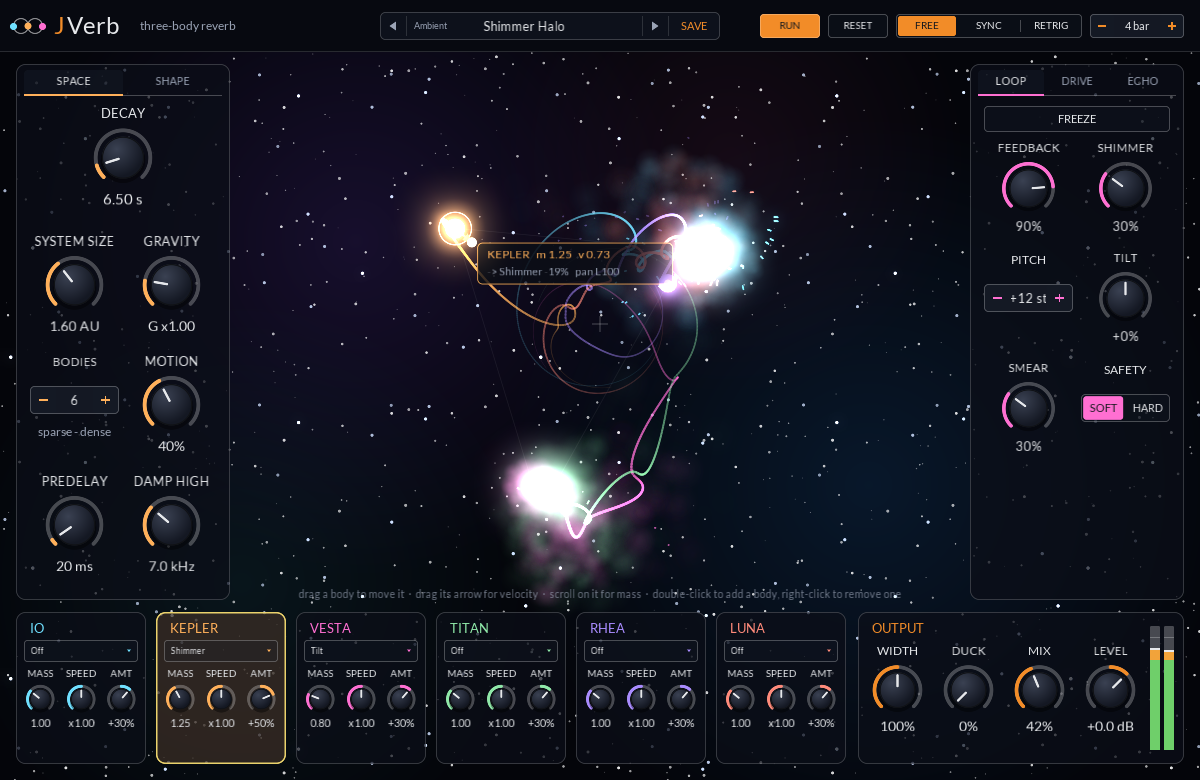
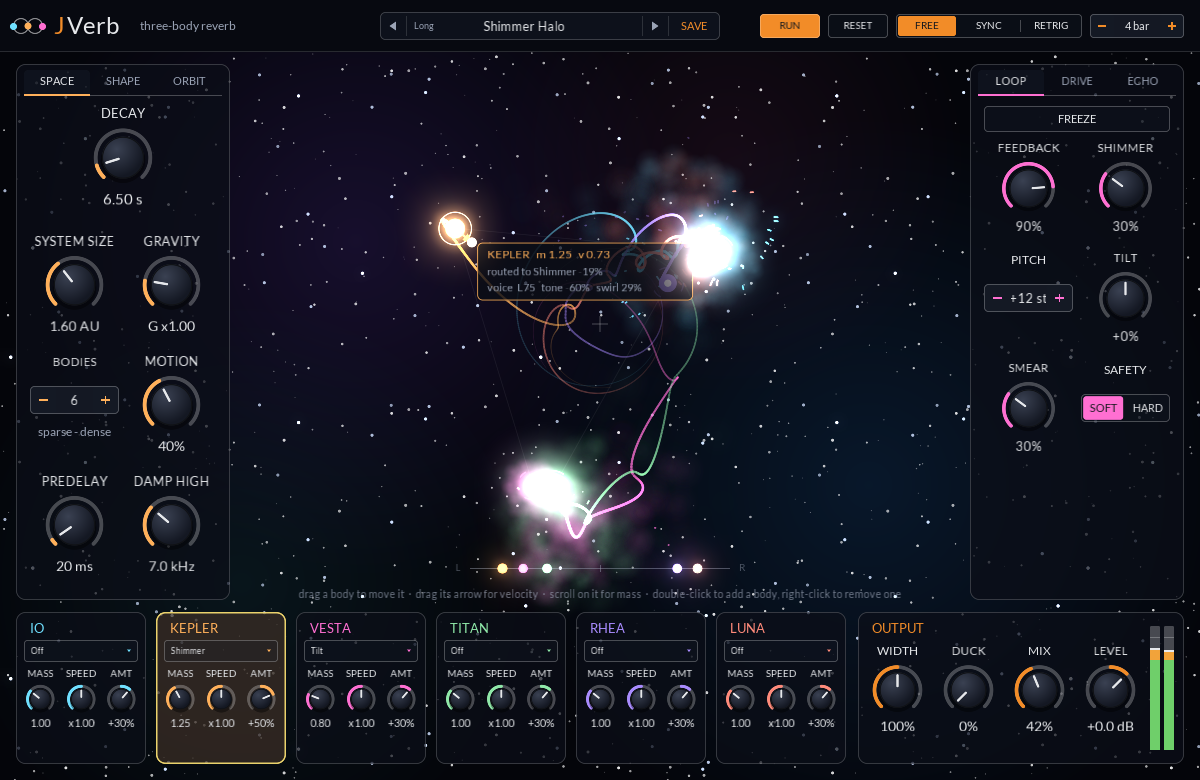
JVerb: show what each body's voice is doing
- An ORBIT page on the left panel holds the Pan, Tone and Swirl knobs, and
  a live row per body showing where its voice sits, its tone and how hard
  its phaser sweeps.
- In the orbit view a bright voice burns whiter and wider and a dark one
  deeper, swirl spins arcs around the body faster the harder it sweeps,
  and a strip under the stage places each voice left to right.
- The body readout adds the voice line and says where the body is routed.
- OrbitFrame carries the engine's applied pan, tone and swirl per body.

Claude-Session: https://claude.ai/code/session_01G8usepLMvmy9exTfPe5V8f

diff --git a/plugins/jverb/src/editor.cpp b/plugins/jverb/src/editor.cpp
@@ -188,6 +188,8 @@ public:
       const int oldCount = frame_.count;
       frame_ = f;
       time_ += dt;
+      for (int b = 0; b < kMaxBodies; ++b)
+         swirlAngle_[b] = std::fmod(swirlAngle_[b] + dt * (0.6f + 7.0f * std::clamp(f.voiceSwirl[b], 0.0f, 1.0f)), 6.2831853f);
       for (int b = f.count; b < std::max(oldCount, f.count); ++b)
          trails_[b].clear();
       if (selected >= f.count)
@@ -289,20 +291,34 @@ public:
       }
 
       // Bodies: a soft halo, a bright core, a white-hot centre; louder bands glow harder, and heavier
-      // bodies are bigger.
+      // bodies are bigger. Each body also shows its own voice in the tail: its tone (a bright voice
+      // burns whiter and wider, a dark one deep and dim) and its phaser (arcs that spin faster and
+      // brighter the harder it sweeps).
       for (int b = 0; b < f.count; ++b) {
          const float r = bodyRadius(f.mass[b]) * s;
          const float energy = std::min(1.0f, f.band[b % 3]) * 0.6f + flare_[b % 3];
+         const float tone = std::clamp(f.voiceTone[b], -1.0f, 1.0f), swirl = std::clamp(f.voiceSwirl[b], 0.0f, 1.0f);
          const float bx = X(f.x[b]), by = Y(f.y[b]);
-         const float halo = r * (3.0f + 1.5f * energy);
-         c.setColor(visage::Brush::radial(glow(kBodyColors[b], 0.24f + 0.14f * energy, 1.0f),
-                                          glow(kBodyColors[b], 0.0f, 1.0f), visage::Point(bx, by), halo));
+         const float halo = r * (3.0f + 1.5f * energy) * (1.0f + 0.2f * tone);
+         const visage::Color core = visage::Color(kBodyColors[b]).interpolateWith(0xffffffff, std::max(0.0f, 0.3f * tone));
+         c.setColor(visage::Brush::radial(core.withAlpha(0.22f + 0.12f * energy + 0.06f * tone),
+                                          core.withAlpha(0.0f), visage::Point(bx, by), halo));
          c.circle(bx - halo, by - halo, 2 * halo);
-         c.setColor(glow(kBodyColors[b], 1.0f, 1.6f + 0.5f * energy));
+         visage::Color body = core;
+         body.setHdr(1.5f + 0.5f * energy + 0.25f * tone);
+         c.setColor(body);
          c.circle(bx - r, by - r, 2 * r);
-         c.setColor(glow(0xffffffff, 1.0f, 1.8f + 0.5f * energy));
+         c.setColor(glow(0xffffffff, 1.0f, 1.8f + 0.5f * energy + 0.15f * tone));
          c.circle(bx - 0.4f * r, by - 0.4f * r, 0.8f * r);
+         if (swirl > 0.02f) {
+            const float ring = r + (6.0f + 4.0f * swirl) * s;
+            c.setColor(glow(kBodyColors[b], 0.25f + 0.65f * swirl, 1.0f + 0.6f * swirl));
+            for (int k = 0; k < 3; ++k)
+               c.roundedArc(bx - ring, by - ring, 2 * ring, 1.4f * s, swirlAngle_[b] + k * 2.0944f, 0.15f + 0.35f * swirl);
+         }
       }
+
+      drawStereo(c, s, f);
 
       const int shown = selected >= 0 ? selected : hover_;
       if (shown >= 0 && shown < f.count)
@@ -607,6 +623,22 @@ private:
       }
    }
 
+   // Where each body's voice sits in the stereo field: a strip under the stage, a dot per body.
+   void drawStereo(visage::Canvas &c, float s, const OrbitFrame &f) {
+      const float x0 = 470 * s, x1 = 730 * s, y = 516 * s;
+      c.setColor(glow(kDim, 0.45f, 1.0f));
+      c.fill(x0, y, x1 - x0, 1.0f * s);
+      c.fill((x0 + x1) / 2, y - 3 * s, 1.0f * s, 7 * s);
+      c.text("L", ui::font(10 * s), visage::Font::kCenter, x0 - 18 * s, y - 7 * s, 12 * s, 14 * s);
+      c.text("R", ui::font(10 * s), visage::Font::kCenter, x1 + 6 * s, y - 7 * s, 12 * s, 14 * s);
+      for (int b = 0; b < f.count; ++b) {
+         const float x = x0 + (x1 - x0) * 0.5f * (1.0f + std::clamp(f.voicePan[b], -1.0f, 1.0f));
+         const float r = (2.5f + 0.25f * bodyRadius(f.mass[b])) * s;
+         c.setColor(glow(kBodyColors[b], 1.0f, 1.4f));
+         c.circle(x - r, y - r + 0.5f * s, 2 * r);
+      }
+   }
+
    void drawReadout(visage::Canvas &c, float s, int b, float bx, float by, float ppu) {
       const OrbitFrame &f = frame_;
       const float ring = std::max(16.0f, bodyRadius(f.mass[b]) + 7.0f) * s;
@@ -627,13 +659,14 @@ private:
       char line1[64], line2[96];
       std::snprintf(line1, sizeof(line1), "%s   m %.2f   v %.2f", kBodyNames[b], f.mass[b], std::hypot(f.vx[b], f.vy[b]));
       const int target = std::min<int>(f.target[b], static_cast<int>(Target::Count) - 1);
-      const float pan = std::min(100.0f, std::fabs(f.x[b]) / 1.3f * 100.0f);
       if (target > 0)
-         std::snprintf(line2, sizeof(line2), "-> %s %+.0f%%   pan %s%.0f", kTargetNames[target],
-                       f.signal[b] * f.amount[b] * 100.0f, f.x[b] < 0 ? "L" : "R", pan);
+         std::snprintf(line2, sizeof(line2), "routed to %s %+.0f%%", kTargetNames[target], f.signal[b] * f.amount[b] * 100.0f);
       else
-         std::snprintf(line2, sizeof(line2), "not routed   pan %s%.0f", f.x[b] < 0 ? "L" : "R", pan);
-      const float tw = 196 * s, th = 42 * s;
+         std::snprintf(line2, sizeof(line2), "routing off");
+      char line3[96];
+      std::snprintf(line3, sizeof(line3), "voice  %s%.0f   tone %+.0f%%   swirl %.0f%%", f.voicePan[b] < 0 ? "L" : "R",
+                    std::fabs(f.voicePan[b]) * 100.0f, f.voiceTone[b] * 100.0f, f.voiceSwirl[b] * 100.0f);
+      const float tw = 216 * s, th = 58 * s;
       const float tx = std::min(bx + 22 * s, width() - tw - 250 * s), ty = by + 14 * s;
       c.setColor(visage::Color(0xd00b0e16));
       c.roundedRectangle(tx, ty, tw, th, 6 * s);
@@ -643,6 +676,7 @@ private:
       c.text(line1, ui::font(12 * s), visage::Font::kLeft, tx + 10 * s, ty + 4 * s, tw - 14 * s, 16 * s);
       c.setColor(kDim);
       c.text(line2, ui::font(11 * s), visage::Font::kLeft, tx + 10 * s, ty + 21 * s, tw - 14 * s, 16 * s);
+      c.text(line3, ui::font(11 * s), visage::Font::kLeft, tx + 10 * s, ty + 37 * s, tw - 14 * s, 16 * s);
    }
 
    EditorHost &host_;
@@ -658,6 +692,7 @@ private:
    float flare_[3] = {};
    float spawnCarry_[3] = {};
    float zoom_ = 0.0f, span_ = 0.0f;
+   float swirlAngle_[kMaxBodies] = {};
    float time_ = 0.0f;
    int hover_ = -1, dragBody_ = -1;
    bool dragArrow_ = false;
@@ -882,6 +917,58 @@ private:
    Zone hover_ = Zone::None;
 };
 
+// The ORBIT page's live view of every body's voice: a row each, with where it sits left to right,
+// its tone (a bar from the centre, right for brighter) and how hard its phaser sweeps.
+class VoiceList : public visage::Frame {
+public:
+   VoiceList() { setIgnoresMouseEvents(true, false); }
+   float designHeight = 1.0f;
+   void setFrame(const OrbitFrame &f) {
+      frame_ = f;
+      redraw();
+   }
+
+   void draw(visage::Canvas &c) override {
+      const float s = height() / designHeight, w = width();
+      const float col = 52 * s, colW = (w - col - 6 * s) / 3;
+      c.setColor(kDim);
+      const char *heads[] = {"PAN", "TONE", "SWIRL"};
+      for (int i = 0; i < 3; ++i)
+         c.text(heads[i], ui::font(10 * s), visage::Font::kCenter, col + i * colW, 0, colW, 14 * s);
+      const float rowH = std::min(28.0f * s, (height() - 18 * s) / kMaxBodies);
+      for (int b = 0; b < frame_.count; ++b) {
+         const float y = 18 * s + b * rowH, mid = y + rowH / 2;
+         c.setColor(kBodyColors[b]);
+         c.text(kBodyNames[b], ui::font(10 * s), visage::Font::kLeft, 2 * s, y, col, rowH);
+         const float pad = 6 * s, bw = colW - 2 * pad;
+         // Pan: a line with a dot.
+         const float px = col + pad;
+         c.setColor(visage::Color(0x33ffffff));
+         c.fill(px, mid, bw, 1.0f * s);
+         c.fill(px + bw / 2, mid - 3 * s, 1.0f * s, 7 * s);
+         c.setColor(glow(kBodyColors[b], 1.0f, 1.3f));
+         const float dot = px + bw * 0.5f * (1.0f + std::clamp(frame_.voicePan[b], -1.0f, 1.0f));
+         c.circle(dot - 3.5f * s, mid - 3.5f * s, 7 * s);
+         // Tone: a bar from the centre.
+         const float tx = col + colW + pad, tone = std::clamp(frame_.voiceTone[b], -1.0f, 1.0f);
+         c.setColor(visage::Color(0x22ffffff));
+         c.roundedRectangle(tx, mid - 3 * s, bw, 6 * s, 3 * s);
+         c.setColor(glow(tone >= 0 ? 0xfffff1d6 : 0xff6f86c0, 0.9f, 1.2f));
+         const float half = bw / 2, len = std::fabs(tone) * half;
+         c.roundedRectangle(tone >= 0 ? tx + half : tx + half - len, mid - 3 * s, std::max(1.0f * s, len), 6 * s, 3 * s);
+         // Swirl: a bar from the left.
+         const float sx = col + 2 * colW + pad, swirl = std::clamp(frame_.voiceSwirl[b], 0.0f, 1.0f);
+         c.setColor(visage::Color(0x22ffffff));
+         c.roundedRectangle(sx, mid - 3 * s, bw, 6 * s, 3 * s);
+         c.setColor(glow(kBodyColors[b], 0.9f, 1.2f));
+         c.roundedRectangle(sx, mid - 3 * s, std::max(1.0f * s, swirl * bw), 6 * s, 3 * s);
+      }
+   }
+
+private:
+   OrbitFrame frame_;
+};
+
 // A card's "+" slot that adds a body.
 class AddSlot : public visage::Frame {
 public:
@@ -943,6 +1030,8 @@ public:
          layoutBodies(count);
       for (int b = 0; b < kMaxBodies; ++b)
          cards_[b].glass->setHighlighted(b == view_->selected);
+      if (voices_->isVisible())
+         voices_->setFrame(frame_);
       float l, r;
       host_.outputPeaks(l, r);
       meters_[0]->setLevel(l);
@@ -1037,7 +1126,7 @@ private:
    void buildSpace() {
       const unsigned a = kSpaceAccent;
       glass({16, 64, 214, 536}, "", a);
-      auto &tabs = glassy(add<ui::TabBar>({24, 70, 198, 26}, std::vector<std::string>{"SPACE", "SHAPE"}), a);
+      auto &tabs = glassy(add<ui::TabBar>({24, 70, 198, 26}, std::vector<std::string>{"SPACE", "SHAPE", "ORBIT"}), a);
       tabs.addToPage(0, knob(kDecay, "DECAY", a, {26, 104, 194, 122}, "How long the tail lasts (RT60)."));
       const auto g = ui::grid({26, 232, 194, 360}, 2, 3);
       tabs.addToPage(0, knob(kSize, "SYSTEM SIZE", a, g[0], "Scales the whole system: every delay line, and the room."));
@@ -1048,7 +1137,7 @@ private:
       bodies.valueText = [](double v) { return std::to_string(static_cast<int>(v + 0.5)); };
       bindings_.bind(bodies, kBodies);
       tabs.addToPage(0, bodies);
-      tips_.add(bodies, "Each body owns two delay lines: fewer is sparse and echoey, more is dense.");
+      tips_.add(bodies, "Each body is a voice in the tail; the ORBIT page sets how much the orbits move them.");
       tabs.addToPage(0, add<ui::Label>(ui::Rect{g[2].x, g[2].y + 72, g[2].w, 16}, "sparse - dense", kDim,
                                        visage::Font::kCenter));
       tabs.addToPage(0, knob(kMotion, "MOTION", a, g[3], "How much the tail drifts and shimmers as it rings: "
@@ -1066,6 +1155,19 @@ private:
       tabs.addToPage(1, knob(kLowCut, "LOW CUT", a, h[5], "Filters the input before the reverb."));
       tabs.addToPage(1, knob(kHighCut, "HIGH CUT", a, h[6], "Filters the input before the reverb."));
       tabs.addToPage(1, knob(kReact, "REACT", a, h[7], "How hard transients in the input kick the bodies."));
+
+      // Each body is its own voice in the tail; these set how much the orbits move those voices.
+      const auto o = ui::grid({26, 104, 194, 240}, 2, 2);
+      tabs.addToPage(2, knob(kOrbitPan, "PAN", a, o[0], "Each body's voice moves from a wide spread to where the "
+                                                        "body is, left to right. Each voice is its own band, "
+                                                        "lowest for the first body."));
+      tabs.addToPage(2, knob(kOrbitTone, "TONE", a, o[1], "A body's voice darkens as it swings out and brightens "
+                                                          "near the centre."));
+      tabs.addToPage(2, knob(kOrbitSwirl, "SWIRL", a, o[2], "How deep each body's phaser goes, swept twice per lap by "
+                                                            "its orbit. No pitch bends."));
+      voices_ = &add<VoiceList>(ui::Rect{24, 352, 198, 236});
+      voices_->designHeight = 236;
+      tabs.addToPage(2, *voices_);
       tabs.select(0);
    }
 
@@ -1246,6 +1348,7 @@ private:
    OrbitView *view_ = nullptr;
    Card cards_[kMaxBodies];
    AddSlot *addSlot_ = nullptr;
+   VoiceList *voices_ = nullptr;
    ui::Meter *meters_[2] = {};
    OrbitFrame frame_;
    int laidOut_ = 0;

diff --git a/plugins/jverb/tools/screenshot.cpp b/plugins/jverb/tools/screenshot.cpp
@@ -67,6 +67,10 @@ public:
          f.signal[b] = static_cast<float>(std::tanh(1.5 * (sim_.speed(b) - 1.0)));
          f.target[b] = static_cast<uint8_t>(values_[bodyParam(b, kBody1Target)] + 0.5);
          f.amount[b] = static_cast<float>(values_[bodyParam(b, kBody1Amount)]);
+         // Roughly what the engine applies at the default Orbit settings.
+         f.voicePan[b] = static_cast<float>(values_[kOrbitPan] * std::clamp(body.x / 1.3, -1.0, 1.0));
+         f.voiceTone[b] = static_cast<float>(values_[kOrbitTone] * std::clamp((0.9 - sim_.radius(b)) / 0.6, -1.0, 1.0));
+         f.voiceSwirl[b] = static_cast<float>(values_[kOrbitSwirl] * std::min(1.0, sim_.speed(b) / 1.5));
       }
       const double beat = std::fmod(t, 0.5) / 0.5, eighth = std::fmod(t, 0.25) / 0.25;
       f.band[0] = static_cast<float>(0.9 * std::exp(-6.0 * beat));

diff --git a/plugins/jverb/src/shared.h b/plugins/jverb/src/shared.h
@@ -20,6 +20,9 @@ struct OrbitFrame {
    float mass[kMaxBodies] = {};
    // Each body's modulation signal (-1..1), where it's routed and by how much.
    float signal[kMaxBodies] = {};
+   // What each body's own voice in the tail is doing, as the engine applies it: where it sits
+   // (-1 left..1 right), its tone (-1 dark..1 bright) and how hard its phaser sweeps (0..1).
+   float voicePan[kMaxBodies] = {}, voiceTone[kMaxBodies] = {}, voiceSwirl[kMaxBodies] = {};
    uint8_t target[kMaxBodies] = {};
    float amount[kMaxBodies] = {};
    // The dry input split into low, mid and high: an envelope per band (about 0..1), and a counter

diff --git a/plugins/jverb/src/plugin.cpp b/plugins/jverb/src/plugin.cpp
@@ -604,6 +604,9 @@ private:
          f.vy[b] = static_cast<float>(body.vy);
          f.mass[b] = static_cast<float>(mass[b]);
          f.signal[b] = static_cast<float>(signal_[b]);
+         f.voicePan[b] = static_cast<float>(engine_.bodyPan(b));
+         f.voiceTone[b] = static_cast<float>(engine_.bodyTone(b));
+         f.voiceSwirl[b] = static_cast<float>(engine_.bodySwirl(b));
          f.target[b] = static_cast<uint8_t>(std::clamp(choice(bodyParam(b, kBody1Target)), 0, static_cast<int>(Target::Count) - 1));
          f.amount[b] = static_cast<float>(value(bodyParam(b, kBody1Amount)));
       }
